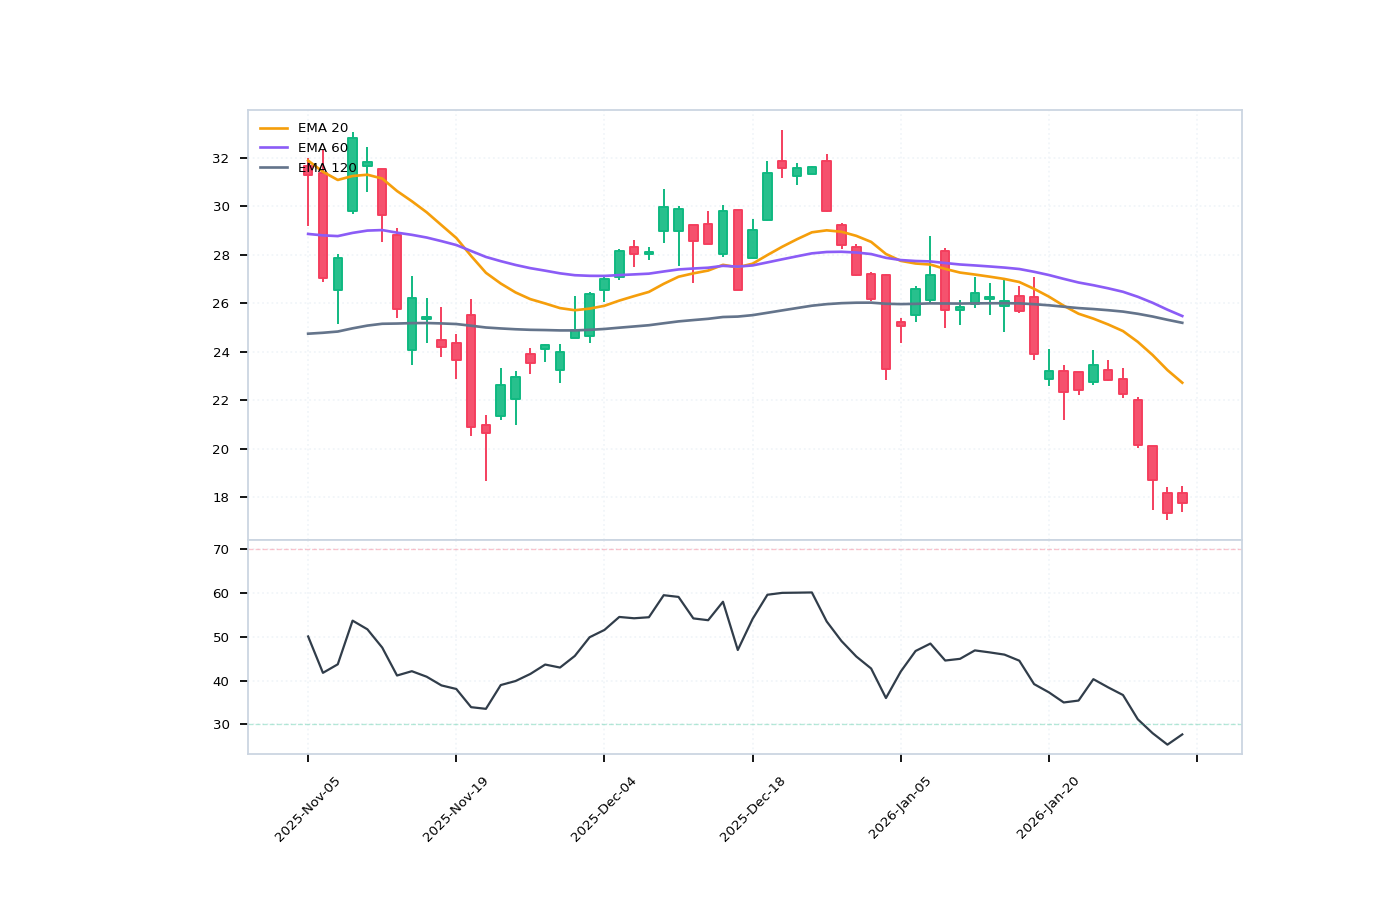
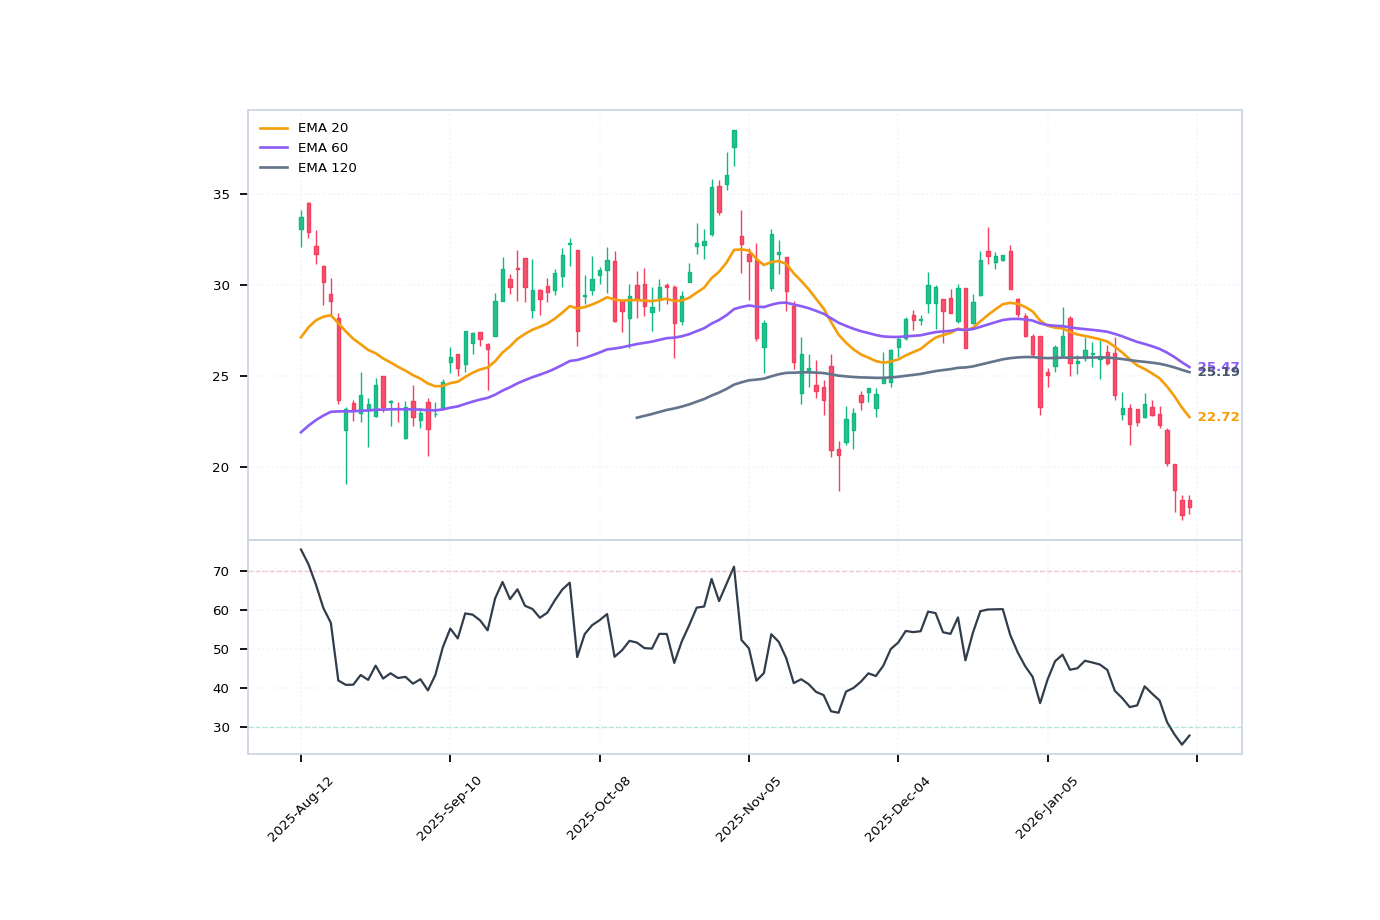
Enh: Improve graph precision and EMA stability with max history

diff --git a/public/index.html b/public/index.html
@@ -403,7 +403,7 @@
         <div class="container">
             <header>
                 <h1>Daily US Stock Briefing</h1>
-                <div class="header-sub">2026-02-03 09:19:47 KST</div>
+                <div class="header-sub">2026-02-03 11:38:03 KST</div>
                 <div class="header-sub" style="font-size: 0.8rem; margin-top: 5px; color: rgba(255, 255, 255, 0.7);">Reference Market Date: 2026-02-02</div>
             </header>
             
@@ -509,8 +509,8 @@
         
                             <div class="price-item">
                                 <span class="price-label">After Hours</span>
-                                <span class="price-value">17.2</span>
-                                <span class="price-change up">+2.32%</span>
+                                <span class="price-value">17.3</span>
+                                <span class="price-change up">+2.91%</span>
                             </div>
             
                         </div>
@@ -562,8 +562,8 @@
         
                             <div class="price-item">
                                 <span class="price-label">After Hours</span>
-                                <span class="price-value">11.28</span>
-                                <span class="price-change down">-0.7%</span>
+                                <span class="price-value">11.27</span>
+                                <span class="price-change down">-0.79%</span>
                             </div>
             
                         </div>
@@ -585,8 +585,8 @@
                             </div>
             
                             <div class="news-item">
-                                <a href="https://finance.yahoo.com/news/sector-tech-stocks-gain-afternoon-204336795.html" target="_blank" class="news-link">Sector Update: Tech Stocks Gain Late Afternoon</a>
-                                <span class="news-source">Source: MT Newswires</span>
+                                <a href="https://finance.yahoo.com/news/taiwan-semiconductor-manufacturing-company-limited-003257145.html" target="_blank" class="news-link">Taiwan Semiconductor Manufacturing Company Limited (TSM): A Bull Case Theory</a>
+                                <span class="news-source">Source: Insider Monkey</span>
                             </div>
             
                         </div>
@@ -610,8 +610,8 @@
         
                             <div class="price-item">
                                 <span class="price-label">After Hours</span>
-                                <span class="price-value">20.02</span>
-                                <span class="price-change up">+12.6%</span>
+                                <span class="price-value">20.09</span>
+                                <span class="price-change up">+12.99%</span>
                             </div>
             
                         </div>
@@ -663,8 +663,8 @@
         
                             <div class="price-item">
                                 <span class="price-label">After Hours</span>
-                                <span class="price-value">7.4</span>
-                                <span class="price-change up">+1.93%</span>
+                                <span class="price-value">7.53</span>
+                                <span class="price-change up">+3.71%</span>
                             </div>
             
                         </div>
@@ -716,8 +716,8 @@
         
                             <div class="price-item">
                                 <span class="price-label">After Hours</span>
-                                <span class="price-value">2.33</span>
-                                <span class="price-change up">+1.99%</span>
+                                <span class="price-value">2.32</span>
+                                <span class="price-change up">+1.75%</span>
                             </div>
             
                         </div>
@@ -769,8 +769,8 @@
         
                             <div class="price-item">
                                 <span class="price-label">After Hours</span>
-                                <span class="price-value">16.16</span>
-                                <span class="price-change up">+1.95%</span>
+                                <span class="price-value">16.12</span>
+                                <span class="price-change up">+1.71%</span>
                             </div>
             
                         </div>
@@ -822,8 +822,8 @@
         
                             <div class="price-item">
                                 <span class="price-label">After Hours</span>
-                                <span class="price-value">58.31</span>
-                                <span class="price-change up">+0.86%</span>
+                                <span class="price-value">58.47</span>
+                                <span class="price-change up">+1.15%</span>
                             </div>
             
                         </div>
@@ -850,8 +850,8 @@
                             </div>
             
                             <div class="news-item">
-                                <a href="https://finance.yahoo.com/news/nvidia-stock-falls-openai-seeks-221504080.html" target="_blank" class="news-link">Nvidia stock falls as OpenAI seeks AI chip rivals</a>
-                                <span class="news-source">Source: Investing.com</span>
+                                <a href="https://finance.yahoo.com/video/amd-earnings-netflix-warner-bros-000000934.html" target="_blank" class="news-link">AMD earnings, Netflix-Warner Bros. hearing: What to Watch</a>
+                                <span class="news-source">Source: Yahoo Finance Video</span>
                             </div>
             
                         </div>
@@ -875,8 +875,8 @@
         
                             <div class="price-item">
                                 <span class="price-label">After Hours</span>
-                                <span class="price-value">117.4</span>
-                                <span class="price-change up">+1.47%</span>
+                                <span class="price-value">118.1</span>
+                                <span class="price-change up">+2.07%</span>
                             </div>
             
                         </div>

diff --git a/main.py b/main.py
@@ -56,7 +56,7 @@ EXCLUDED_PUBLISHERS = [
 def fetch_and_analyze(ticker_symbol):
     try:
         ticker = yf.Ticker(ticker_symbol)
-        df = ticker.history(period="1y")
+        df = ticker.history(period="max")
         
         if df.empty:
             return f"❌ {ticker_symbol}: Unable to fetch data."
@@ -426,8 +426,8 @@ def fetch_market_news():
     return unique_news
 
 def generate_chart(symbol, df, filename):
-    # Use only recent 60 trading days (Chart Readability)
-    plot_df = df.tail(60).copy()
+    # Use more trading days for better context (120 days)
+    plot_df = df.tail(120).copy()
     
     # Remove empty data
     plot_df = plot_df.dropna(subset=['Open', 'High', 'Low', 'Close'])
@@ -486,9 +486,9 @@ def generate_chart(symbol, df, filename):
     )
     
     # Reflect user feedback: Reduce left margin per orange guideline (0.2 -> 0.12)
-    # Maintain right margin (right=0.8)
+    # Maintain right margin (right=0.8) -> Increased to 0.85 for labels
     # Maintain top/bottom margins (top=0.8, bottom=0.2)
-    plt.subplots_adjust(left=0.12, right=0.8, top=0.8, bottom=0.2)
+    plt.subplots_adjust(left=0.12, right=0.85, top=0.8, bottom=0.2)
     
     # Legend settings (Simple)
     axes[0].legend(loc='upper left', fontsize=6, frameon=False)
@@ -500,6 +500,19 @@ def generate_chart(symbol, df, filename):
     # Axis alignment settings
     axes[0].set_ylabel('')
     axes[2].set_ylabel('')
+    
+    # Add Current EMA values as text labels on the right margin
+    last_p = plot_df.iloc[-1]
+    last_vals = []
+    if 'EMA20' in last_p: last_vals.append(('EMA20', last_p['EMA20'], '#f59e0b'))
+    if 'EMA60' in last_p: last_vals.append(('EMA60', last_p['EMA60'], '#8b5cf6'))
+    if 'EMA120' in last_p: last_vals.append(('EMA120', last_p['EMA120'], '#475569'))
+    
+    # Sort by value for clean vertical placement logic if needed, but simple for now
+    for name, val, color in last_vals:
+        if not pd.isna(val):
+            axes[0].text(len(plot_df)-0.5, val, f' {val:.2f}', color=color, 
+                        fontsize=6, fontweight='bold', va='center', ha='left')
     
     # Font and tick settings (Adjust pad so numbers appear outside the chart box with sufficient space)
     for ax in axes:

diff --git a/debug_pltg.py b/debug_pltg.py
@@ -1,0 +1,27 @@
+import yfinance as yf
+import pandas as pd
+import pandas_ta as ta
+
+def debug_tickers():
+    for ticker_symbol in ["BITU", "PLTG", "CRWU"]:
+        ticker = yf.Ticker(ticker_symbol)
+        df = ticker.history(period="1y")
+        df['EMA20'] = ta.ema(df['Close'], length=20)
+        df['EMA60'] = ta.ema(df['Close'], length=60)
+        df['EMA120'] = ta.ema(df['Close'], length=120)
+        
+        last = df.iloc[-1]
+        print(f"\n--- {ticker_symbol} (Data Length: {len(df)}) ---")
+        print(f"EMA20: {last['EMA20']:.2f}")
+        print(f"EMA60: {last['EMA60']:.2f}")
+        print(f"EMA120: {last['EMA120']:.2f}")
+        
+        a1 = last['EMA20'] < last['EMA60']
+        a2 = last['EMA60'] < last['EMA120'] if not pd.isna(last['EMA120']) else True
+        print(f"20 < 60: {a1}")
+        print(f"60 < 120: {a2}")
+        print(f"Alignment: {a1 and a2}")
+
+
+if __name__ == "__main__":
+    debug_tickers()
